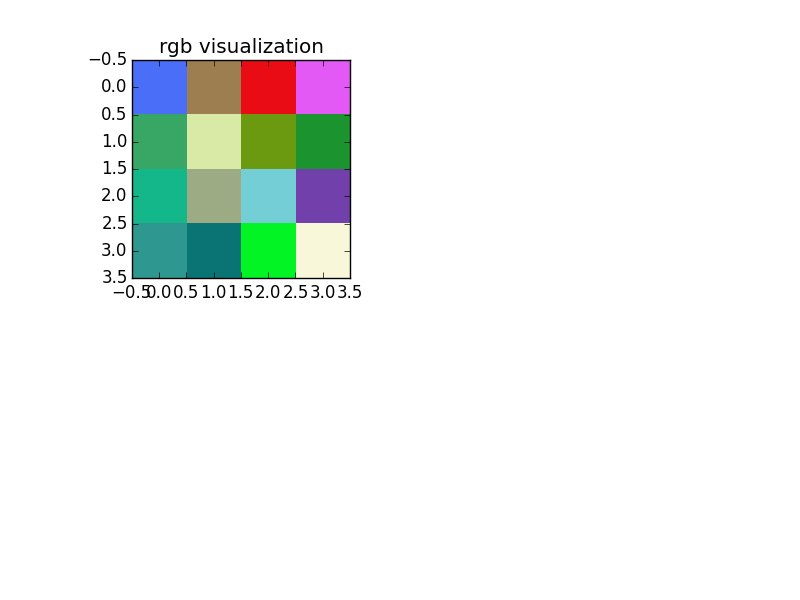
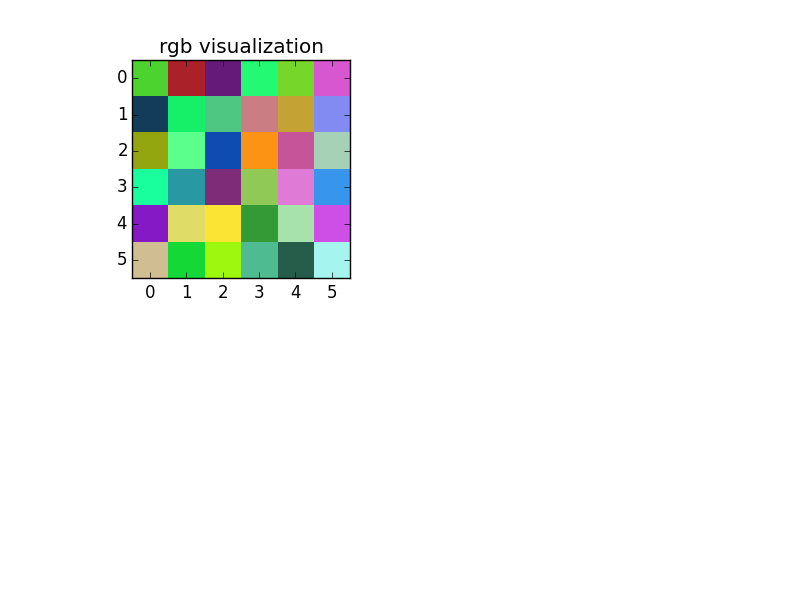
fixed my python som implementation

Changed region(s): [[0.125, 0.09, 0.4375, 0.51]]

diff --git a/python_simple.py b/python_simple.py
@@ -1,0 +1,86 @@
+import random
+import numpy as np
+from sklearn.decomposition import PCA
+from util import visualize_rgb
+
+def fast_norm(x):
+    """Returns norm-2 of a 1-D numpy array.
+    * faster than linalg.norm in case of 1-D arrays (numpy 1.9.2rc1).
+    """
+    return np.sqrt(np.dot(x, x.T))
+
+class SOM:
+	'''
+	sigma(t) = sigma / (1 + 2 * t/T), controls the update gaussian
+	'''
+	def __init__(self, w, h, sigma=0.2, lr=0.1):
+		self.w = w
+		self.h = h
+		self.neigx = np.arange(self.w)
+		self.neigy = np.arange(self.h)
+		self.sigma = sigma
+		self.lr = lr
+		self._decay_func = lambda x, t, max_iter: x/(1+float(t)/max_iter)
+		
+	'''
+	methods:
+	- random - random sample
+	- PCA - pca grid
+	'''
+	def initialize(self, data):
+		self.codebook = np.array([[np.zeros((3)) for i in range(self.w)] for j in range(self.h)])
+		for j in range(self.h):
+			for i in range(self.w):
+				self.codebook[j][i] = random.choice(data)
+
+	def train(self, data, iterations):
+		random.shuffle(data)
+		for t in range(iterations):
+			diffbook = np.array([[np.zeros((3)) for i in range(self.w)] for j in range(self.h)])
+			sigma = self._decay_func(self.sigma, t, iterations)
+			lr = self._decay_func(self.lr, t, iterations)
+			print t, sigma, lr
+			for elem in data:
+				(w_h, w_w) = self.winner(elem)
+				g = self.gaussian((w_h, w_w), sigma) * lr
+				it = np.nditer(g, flags=['multi_index'])
+				while not it.finished:
+					self.codebook[it.multi_index] += g[it.multi_index]*(elem - self.codebook[it.multi_index])
+					self.codebook[it.multi_index] = self.codebook[it.multi_index] / fast_norm(self.codebook[it.multi_index])
+					it.iternext()
+
+			visualize_rgb(self.w, self.h, self.codebook, "iter_" + str(t))
+
+	""" Computes the coordinates of the winning neuron for the sample x """
+	def winner(self, x):
+		min_dist = 999999
+		min_coord = (0, 0)
+		for j in range(self.h):
+			for i in range(self.w):
+				dist = np.linalg.norm(x-self.codebook[j][i])
+				if dist <= min_dist:
+					min_dist = dist
+					min_coord = (j, i)
+		return min_coord
+
+	'''
+	gaussian((2,2), 1)
+	[[ 0.27992333  0.45123152  0.52907781  0.45123152]
+	 [ 0.45123152  0.72737735  0.8528642   0.72737735]
+	[ 0.52907781  0.8528642   1.          0.8528642 ]
+	[ 0.45123152  0.72737735  0.8528642   0.72737735]]
+	'''
+	def gaussian(self, c, sigma):
+		d = 2*np.pi*sigma*sigma
+		ax = np.exp(-np.power(self.neigx-c[0], 2)/d)
+		ay = np.exp(-np.power(self.neigy-c[1], 2)/d)
+		return np.outer(ax, ay)
+
+
+rgb = np.load("data/generated_rgb.np")
+
+s = SOM(6, 6, sigma=0.3, lr=0.5)
+s.initialize(rgb)
+visualize_rgb(s.w, s.h, s.codebook, "init")
+s.train(rgb, 10)
+visualize_rgb(s.w, s.h, s.codebook, "result")

diff --git a/python_optimized.py b/python_optimized.py
@@ -1,0 +1,69 @@
+import random
+import numpy as np
+from sklearn.decomposition import PCA
+from util import visualize_rgb
+
+def fast_norm(x):
+    return np.sqrt(np.dot(x, x.T))
+
+class SOM:
+	def __init__(self, w, h, sigma=0.2, lr=0.1):
+		self.w = w
+		self.h = h
+		self.neigx = np.arange(self.w)
+		self.neigy = np.arange(self.h)
+		self.sigma = sigma
+		self.lr = lr
+		self._decay_func = lambda x, t, max_iter: x/(1+float(t)/max_iter)
+		
+	def initialize(self, data):
+		self.codebook = np.array([[np.zeros((3)) for i in range(self.w)] for j in range(self.h)])
+		for j in range(self.h):
+			for i in range(self.w):
+				self.codebook[j][i] = random.choice(data)
+
+	def train(self, data, iterations):
+		random.shuffle(data)
+		for t in range(iterations):
+			sigma = self._decay_func(self.sigma, t, iterations)
+			lr = self._decay_func(self.lr, t, iterations)
+			print t, sigma, lr
+			for elem in data:
+				(w_h, w_w) = self.winner(elem)
+				g = self.gaussian((w_h, w_w), sigma) * lr
+				it = np.nditer(g, flags=['multi_index'])
+				while not it.finished:
+					self.codebook[it.multi_index] += g[it.multi_index]*(elem - self.codebook[it.multi_index])
+					self.codebook[it.multi_index] = self.codebook[it.multi_index] / fast_norm(self.codebook[it.multi_index])
+					it.iternext()
+
+			visualize_rgb(self.w, self.h, self.codebook, "iter_" + str(t))
+
+	def _activate(self, x):
+		self.activation_map = np.zeros((self.h,self.w))
+		s = np.subtract(x, self.codebook)
+		it = np.nditer(self.activation_map, flags=['multi_index'])
+		while not it.finished:
+			self.activation_map[it.multi_index] = fast_norm(s[it.multi_index])  
+			it.iternext()
+
+	def winner(self, x):
+		self._activate(x)
+		return np.unravel_index(self.activation_map.argmin(), self.activation_map.shape)
+
+	def gaussian(self, c, sigma):
+		d = 2*np.pi*sigma*sigma
+		ax = np.exp(-np.power(self.neigx-c[0], 2)/d)
+		ay = np.exp(-np.power(self.neigy-c[1], 2)/d)
+		return np.outer(ax, ay)
+
+
+rgb = np.load("data/generated_rgb.np")
+
+s = SOM(6, 6, sigma=0.3, lr=0.5)
+
+s.initialize(rgb)
+
+visualize_rgb(s.w, s.h, s.codebook, "init")
+s.train(rgb, 10)
+visualize_rgb(s.w, s.h, s.codebook, "result")

diff --git a/python_minisom.py b/python_minisom.py
@@ -1,0 +1,20 @@
+import random
+import numpy as np
+from util import visualize_rgb
+from minisom import MiniSom    
+
+rgb = np.load("data/generated_rgb.np")
+
+w, h = 6, 6
+
+som = MiniSom(w, h, 3, sigma=0.3, learning_rate=0.5)
+
+visualize_rgb(w, h, som.weights, filename="minisom_init")
+
+print "Training..."
+
+som.train_random(rgb, 100)
+
+print "...ready!"
+
+visualize_rgb(w, h, som.weights, filename="minisom_result")

diff --git a/generate_data.py b/generate_data.py
@@ -3,7 +3,6 @@ import sys
 import random
 import numpy as np
 
-
 r = lambda: random.randint(0,255)
 # r = lambda: random.choice([0, 255])
 count = int(sys.argv[1])
